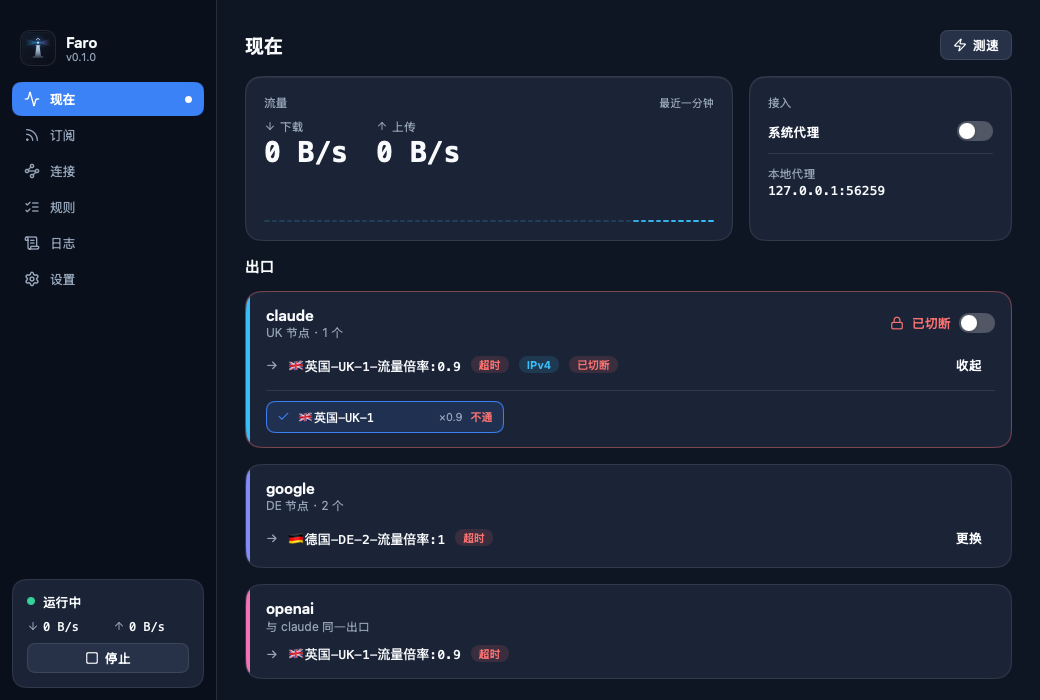
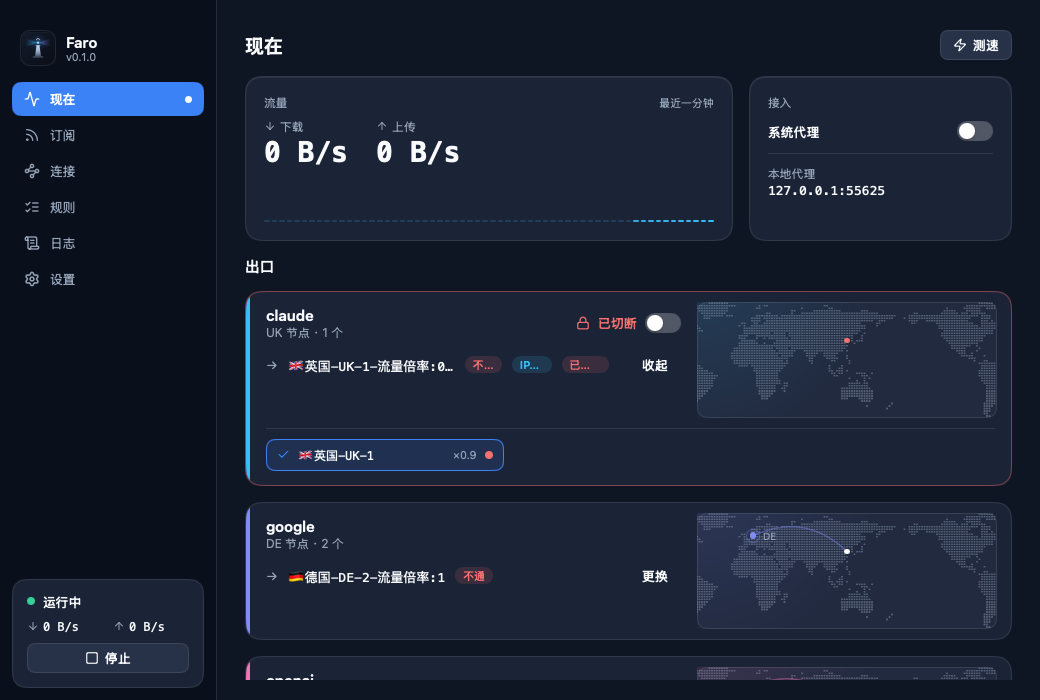
Node chips go under the lane's map, across the card; a node that does not work is a red dot

diff --git a/page_now.go b/page_now.go
@@ -107,42 +107,57 @@ func (a *app) lane(c *ui.Context, st engine.State, r rules.Route, hue ui.Color) 
 	card := ui.Row(c).Background(a.k.surface).Border(1, edge).Radius(16).Gap(0).AlignItems(ui.Stretch).Clip()
 	card.Children(func() {
 		ui.Box(c).Width(4).Background(hue) // the route's hue: always beside its name
-		ui.Column(c).Grow(1).Padding(14, 16).Gap(10).Children(func() {
-			ui.Row(c).Gap(10).AlignItems(ui.Center).Children(func() {
-				ui.Column(c).Grow(1).Gap(2).Children(func() {
-					ui.Text(c, r.ID).FontSize(fsHeading).FontWeight(600)
-					ui.Text(c, laneKind(r)).FontSize(fsMeta).TextColor(a.k.text2)
+		ui.Column(c).Grow(1).Children(func() {
+			ui.Row(c).AlignItems(ui.Stretch).Children(func() { a.laneTop(c, st, r, hue, blocked) })
+			if !blocked && a.expanded[r.ID] {
+				chipsBelow(c, func() {
+					a.nodeChips(c, st, r.Nodes, r.Chosen, r.Fast, func(tag string) { a.eng.Choose(r.ID, tag) })
 				})
-				if r.Gate && !blocked {
-					a.gate(c, r)
-				}
-			})
-			if blocked {
-				ui.Row(c).Gap(8).AlignItems(ui.Center).Children(func() {
-					icon(c, "shield-alert", 14, a.k.danger)
-					ui.Text(c, "没有符合的节点，发往它的流量会被阻断，不会换别的出口").FontSize(fsBody).TextColor(a.k.danger)
-				})
-				return
-			}
-			a.laneExit(c, st, r)
-			if len(r.Exit) > 0 {
-				a.exitLine(c, st, r)
-			}
-			if a.expanded[r.ID] {
-				a.nodeChips(c, st, r.Nodes, r.Chosen, r.Fast, func(tag string) { a.eng.Choose(r.ID, tag) })
 			}
 		})
-		if !blocked {
-			mode := mapLive
-			if r.Closed || (len(r.Exit) > 0 && !st.Exits[r.ID].OK) { // cut by hand, or by its check
-				mode = mapClosed
-			}
-			exit, label := laneExitPlace(st, r)
-			ui.Column(c).Padding(10, 14, 10, 0).Justify(ui.Center).Children(func() {
-				a.laneMap(c, r.ID, hue, exit, label, mode)
+	})
+}
+
+// laneTop is a lane's name, gate and exit, with its map beside them.
+func (a *app) laneTop(c *ui.Context, st engine.State, r rules.Route, hue ui.Color, blocked bool) {
+	ui.Column(c).Grow(1).Padding(14, 16).Gap(10).Children(func() {
+		ui.Row(c).Gap(10).AlignItems(ui.Center).Children(func() {
+			ui.Column(c).Grow(1).Gap(2).Children(func() {
+				ui.Text(c, r.ID).FontSize(fsHeading).FontWeight(600)
+				ui.Text(c, laneKind(r)).FontSize(fsMeta).TextColor(a.k.text2)
 			})
+			if r.Gate && !blocked {
+				a.gate(c, r)
+			}
+		})
+		if blocked {
+			ui.Row(c).Gap(8).AlignItems(ui.Center).Children(func() {
+				icon(c, "shield-alert", 14, a.k.danger)
+				ui.Text(c, "没有符合的节点，发往它的流量会被阻断，不会换别的出口").FontSize(fsBody).TextColor(a.k.danger)
+			})
+			return
+		}
+		a.laneExit(c, st, r)
+		if len(r.Exit) > 0 {
+			a.exitLine(c, st, r)
 		}
 	})
+	if !blocked {
+		mode := mapLive
+		if r.Closed || (len(r.Exit) > 0 && !st.Exits[r.ID].OK) { // cut by hand, or by its check
+			mode = mapClosed
+		}
+		exit, label := laneExitPlace(st, r)
+		ui.Column(c).Padding(10, 14, 10, 0).Justify(ui.Center).Children(func() {
+			a.laneMap(c, r.ID, hue, exit, label, mode)
+		})
+	}
+}
+
+// chipsBelow holds a lane's node grid under its top row, across the whole card
+// and not only beside the map.
+func chipsBelow(c *ui.Context, children func()) {
+	ui.Column(c).Padding(0, 16, 14, 16).Gap(10).Children(children)
 }
 
 func laneKind(r rules.Route) string {
@@ -208,34 +223,43 @@ func (a *app) laneExit(c *ui.Context, st engine.State, r rules.Route) {
 func (a *app) mainLane(c *ui.Context, st engine.State) {
 	ui.Row(c).Background(a.k.surface).Border(1, a.k.border).Radius(16).AlignItems(ui.Stretch).Clip().Children(func() {
 		ui.Box(c).Width(4).Background(a.k.text2.Alpha(0.5))
-		ui.Column(c).Grow(1).Padding(14, 16).Gap(10).Children(func() {
-			ui.Text(c, "proxy").FontSize(fsHeading).FontWeight(600)
-			ui.Row(c).Gap(10).AlignItems(ui.Center).Children(func() {
-				cur := st.Choices[singcfg.TagProxy]
-				ui.Text(c, "→").FontSize(fsBody).TextColor(a.k.text2)
-				name := "自动选最快"
-				if cur != "" {
-					name = shorten(cur, 34)
-				}
-				mono(ui.Text(c, name).FontSize(fsBody)).SingleLine().Tooltip(name)
-				a.delayPill(c, st, cur)
-				ui.Spacer(c)
-				label := "更换"
-				if a.expanded[singcfg.TagProxy] {
-					label = "收起"
-				}
-				if a.button(c, btnGhost, "", label).Clicked() {
-					a.expanded[singcfg.TagProxy] = !a.expanded[singcfg.TagProxy]
-				}
-			})
+		ui.Column(c).Grow(1).Children(func() {
+			ui.Row(c).AlignItems(ui.Stretch).Children(func() { a.mainTop(c, st) })
 			if a.expanded[singcfg.TagProxy] {
-				a.groupedChips(c, st, cur(st), func(tag string) { a.eng.Choose(singcfg.TagProxy, tag) })
+				chipsBelow(c, func() {
+					a.groupedChips(c, st, cur(st), func(tag string) { a.eng.Choose(singcfg.TagProxy, tag) })
+				})
 			}
 		})
-		exit, label := mainExitPlace(st)
-		ui.Column(c).Padding(10, 14, 10, 0).Justify(ui.Center).Children(func() {
-			a.laneMap(c, singcfg.TagProxy, a.k.accent, exit, label, mapLive)
+	})
+}
+
+// mainTop is the proxy lane's exit, with its map beside it.
+func (a *app) mainTop(c *ui.Context, st engine.State) {
+	ui.Column(c).Grow(1).Padding(14, 16).Gap(10).Children(func() {
+		ui.Text(c, "proxy").FontSize(fsHeading).FontWeight(600)
+		ui.Row(c).Gap(10).AlignItems(ui.Center).Children(func() {
+			cur := st.Choices[singcfg.TagProxy]
+			ui.Text(c, "→").FontSize(fsBody).TextColor(a.k.text2)
+			name := "自动选最快"
+			if cur != "" {
+				name = shorten(cur, 34)
+			}
+			mono(ui.Text(c, name).FontSize(fsBody)).SingleLine().Tooltip(name)
+			a.delayPill(c, st, cur)
+			ui.Spacer(c)
+			label := "更换"
+			if a.expanded[singcfg.TagProxy] {
+				label = "收起"
+			}
+			if a.button(c, btnGhost, "", label).Clicked() {
+				a.expanded[singcfg.TagProxy] = !a.expanded[singcfg.TagProxy]
+			}
 		})
+	})
+	exit, label := mainExitPlace(st)
+	ui.Column(c).Padding(10, 14, 10, 0).Justify(ui.Center).Children(func() {
+		a.laneMap(c, singcfg.TagProxy, a.k.accent, exit, label, mapLive)
 	})
 }
 
@@ -434,13 +458,18 @@ func (a *app) testState(c *ui.Context, st engine.State, tag string) {
 		ui.Spinner(c).Size(13, 13).Label("正在测试")
 	case !ok:
 	case d < 0:
-		mono(ui.Text(c, "不通").FontSize(fsCaption).FontWeight(600).TextColor(a.k.danger)).SingleLine()
+		a.deadDot(c)
 	default:
 		mono(ui.Text(c, fmt.Sprintf("%d", d)).FontSize(fsCaption).FontWeight(600).TextColor(delayColor(a, d))).SingleLine()
 		if known && works {
 			icon(c, "check", 12, a.k.ok).Label("通")
 		} else if known {
-			icon(c, "x", 12, a.k.danger).Label("不通")
+			a.deadDot(c)
 		}
 	}
+}
+
+// deadDot is a node that does not work: a red dot at the chip's right end.
+func (a *app) deadDot(c *ui.Context) {
+	ui.Box(c).Size(8, 8).Radius(4).Shrink(0).Background(a.k.danger).Label("不通").Tooltip("不通")
 }

diff --git a/main_test.go b/main_test.go
@@ -814,7 +814,13 @@ func TestClickingANodeChoosesAndTestsIt(t *testing.T) {
 	if len(st.Delays) != 0 || st.Choices["proxy"] != "" {
 		t.Fatal("something was chosen or tested before any click")
 	}
-	tt := view(a)
+	// A tall window: the chips are under the lane's map, and this one is in the second country.
+	tall := func() *ui.Tester {
+		tt := ui.NewTester(a.view, 1040, 1000)
+		tt.SetTitleBar(ui.TitleBar{Height: 28, Left: 76})
+		return tt
+	}
+	tt := tall()
 	if err := tt.Click("日本-TY-1-流量倍率:1.2"); err != nil { // the chip's label is the full name
 		t.Fatal(err)
 	}
@@ -827,7 +833,7 @@ func TestClickingANodeChoosesAndTestsIt(t *testing.T) {
 		t.Errorf("%d nodes tested, want only the one clicked: %v", n, a.eng.State().Delays)
 	}
 	// The answer is on the chip: a number, or that it does not answer (these nodes are not real).
-	tt = view(a)
+	tt = tall()
 	answered := false
 	for _, txt := range tt.Texts() {
 		answered = answered || txt == "不通"
@@ -836,7 +842,7 @@ func TestClickingANodeChoosesAndTestsIt(t *testing.T) {
 		t.Errorf("the chip does not show the answer: %q", tt.Texts())
 	}
 	// Clicking another changes the choice and tests that one too; the first stays as it was.
-	if err := view(a).Click("日本-TY-2-流量倍率:1"); err != nil {
+	if err := tall().Click("日本-TY-2-流量倍率:1"); err != nil {
 		t.Fatal(err)
 	}
 	wait(t, "the second", func() bool { _, ok := a.eng.State().Delays["日本-TY-2-流量倍率:1"]; return ok })
